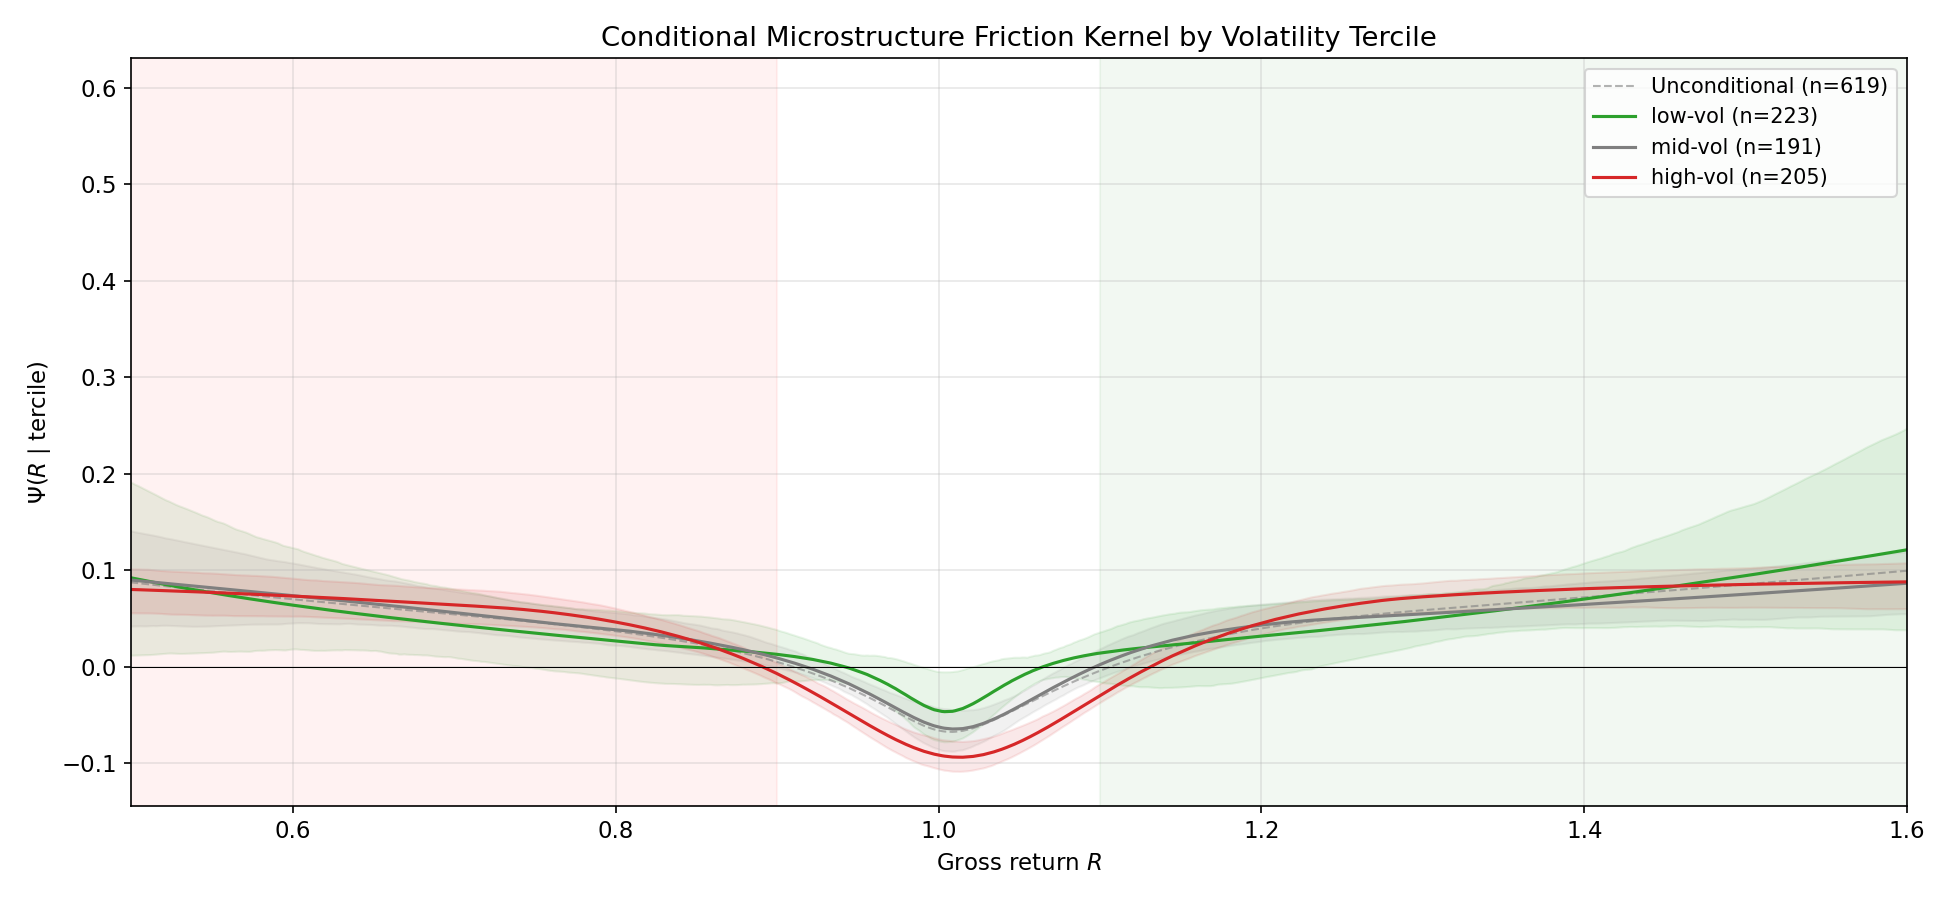
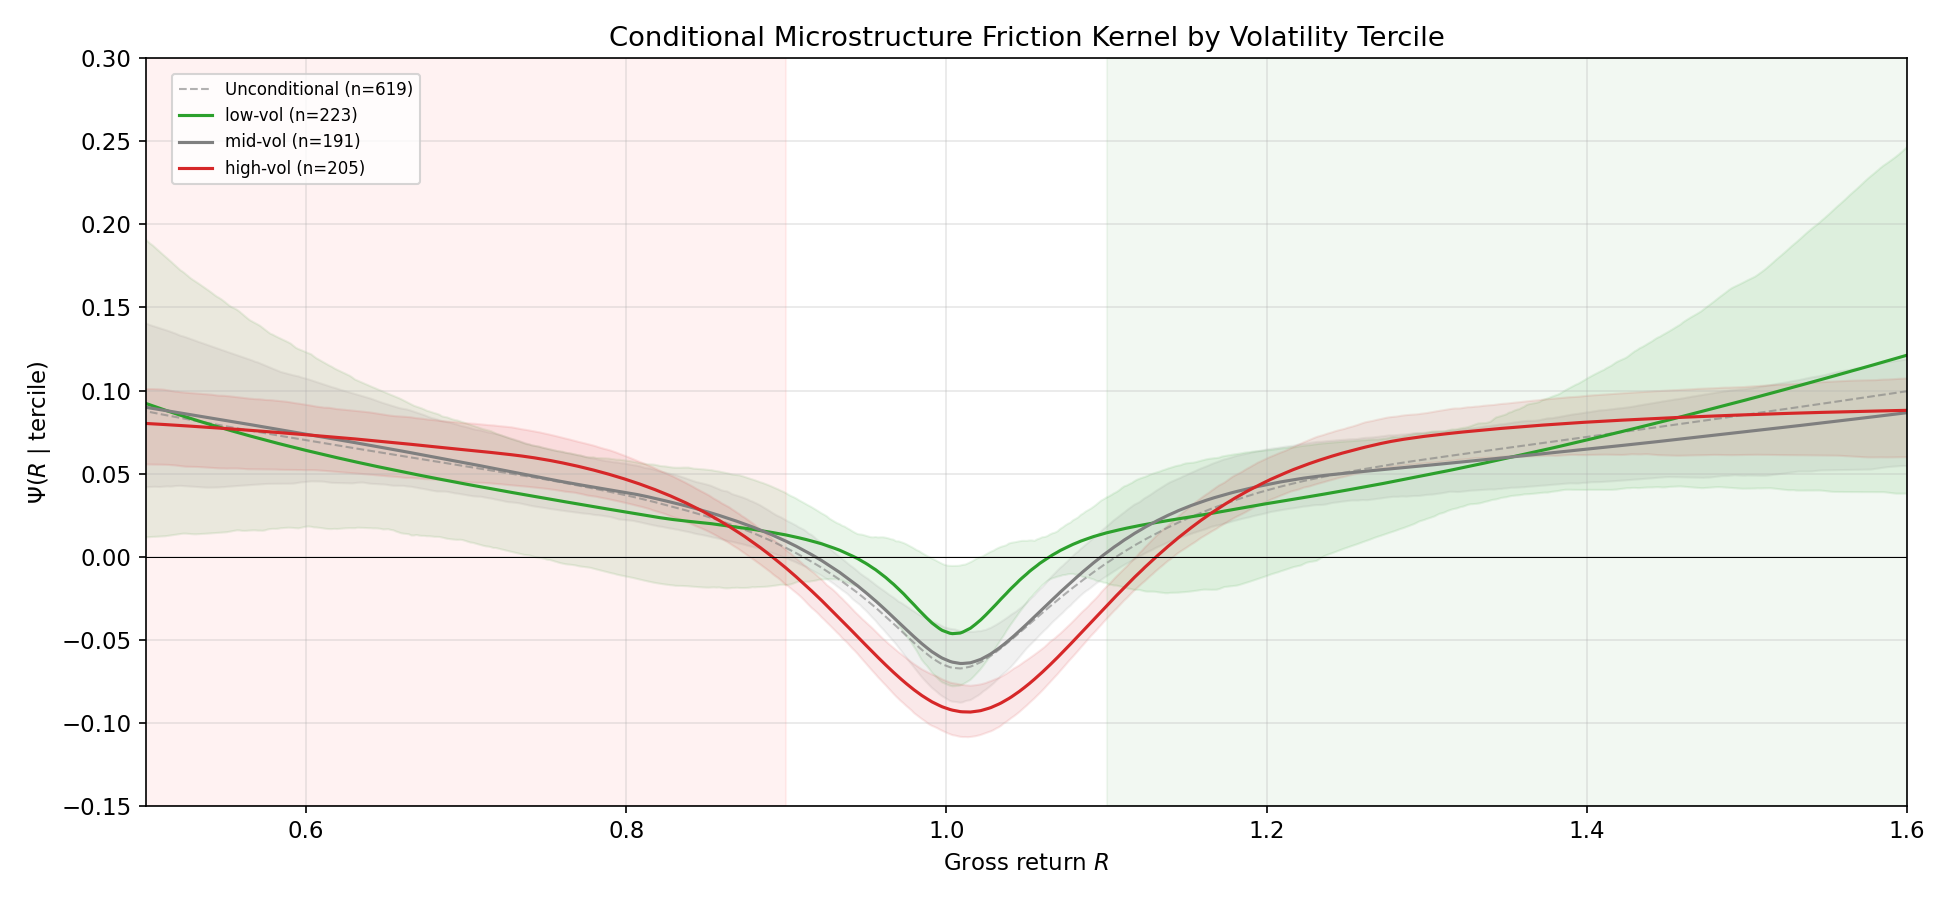
Labels

diff --git a/src/phase5/run_phase5.py b/src/phase5/run_phase5.py
@@ -185,8 +185,9 @@ def _plot_conditional_mfk(mfk_results):
     ax.set_xlabel("Gross return $R$")
     ax.set_ylabel(r"$\Psi(R \mid \mathrm{tercile})$")
     ax.set_title("Conditional Microstructure Friction Kernel by Volatility Tercile")
-    ax.legend(fontsize=10)
+    ax.legend(loc='upper left', bbox_to_anchor=(0.01, 0.99), fontsize=8)
     ax.set_xlim(0.50, 1.60)
+    ax.set_ylim(-0.15, 0.30)
     plt.tight_layout()
     plt.savefig(FIG_DIR / "fig_mfk_conditional.png", dpi=150)
     plt.close()
